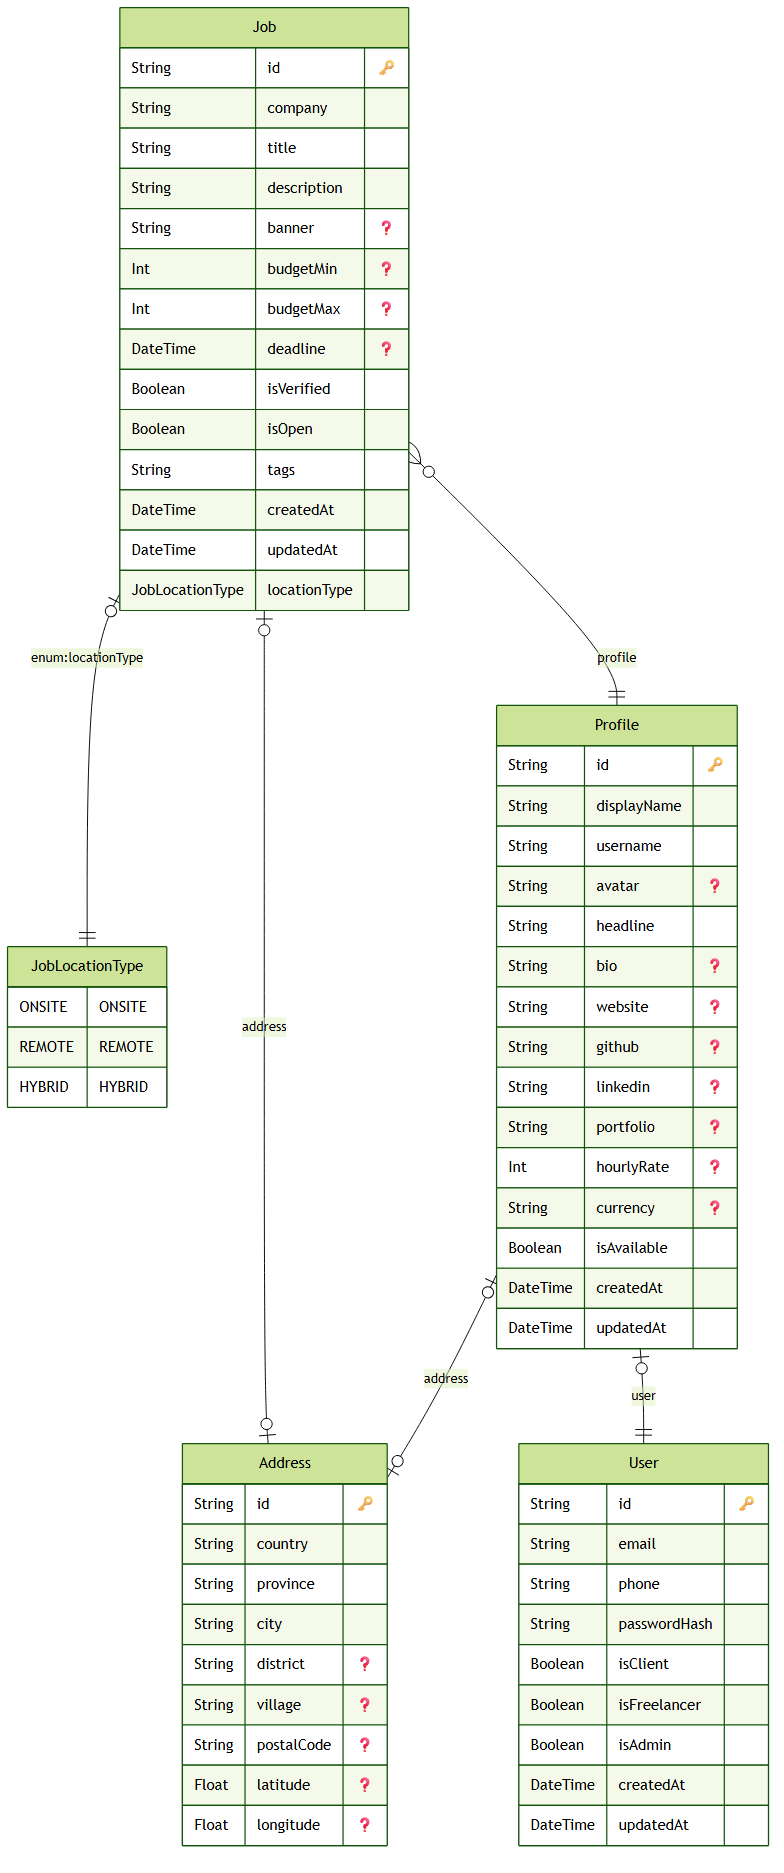
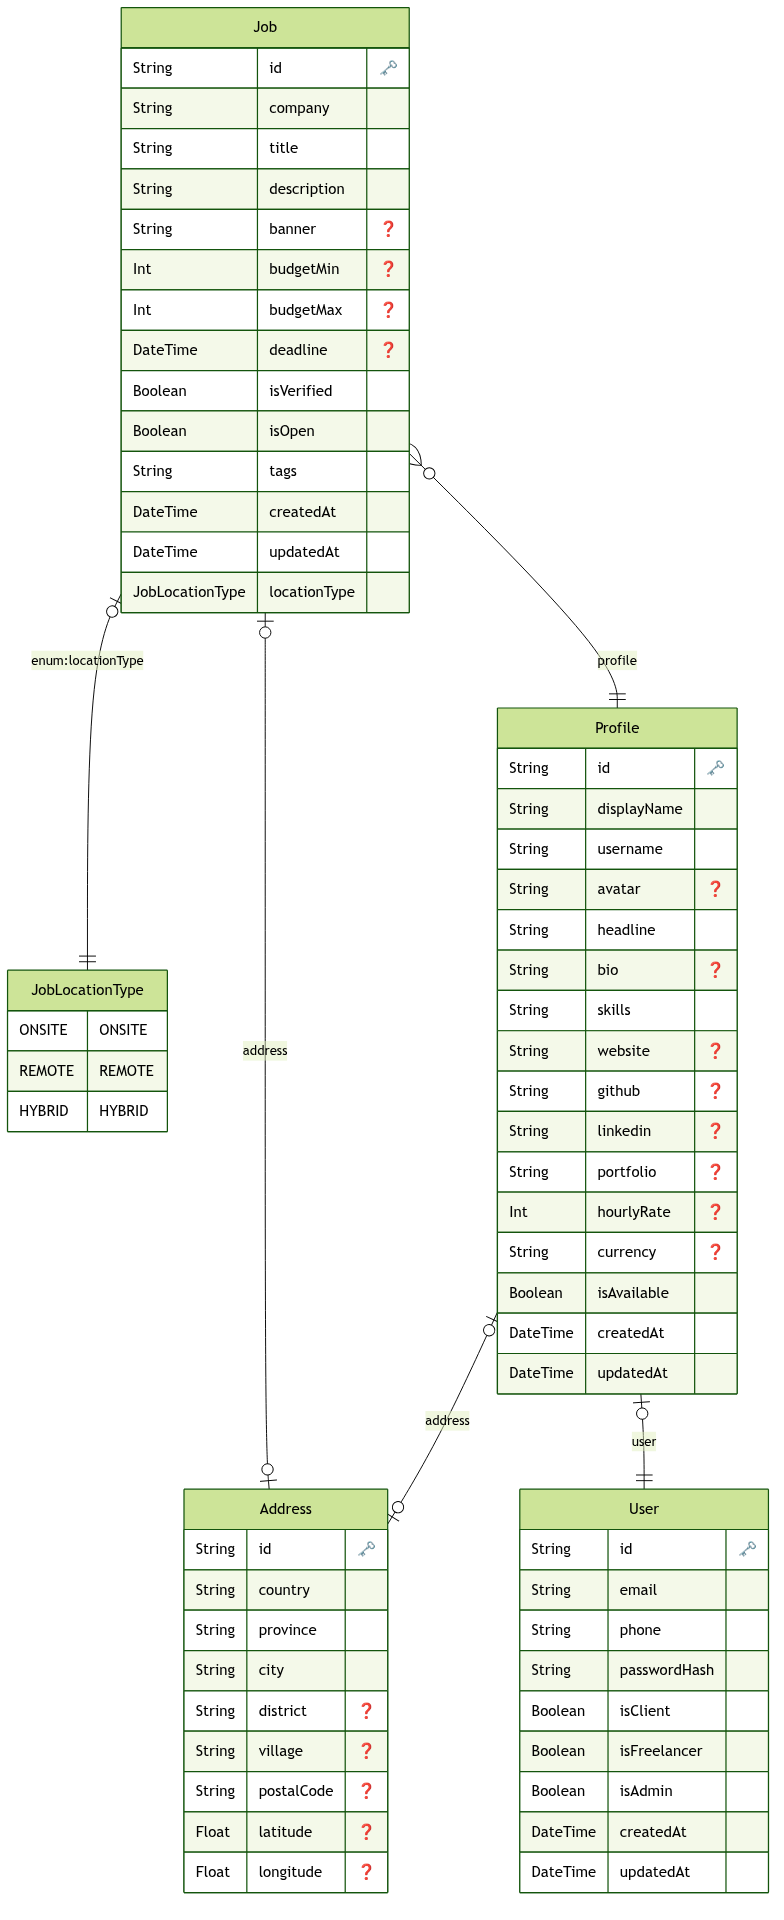
feat(database): reinitialize database schema with User, Address, Profile, and Job tables

diff --git a/src/app/api/auth/me/route.ts b/src/app/api/auth/me/route.ts
@@ -12,77 +12,3 @@ export async function GET() {
 
   return Response.json({ user });
 }
-
-// export async function GET() {
-//   try {
-//     const cookieStore = await cookies();
-
-//     const token = cookieStore.get("access_token")?.value;
-
-//     if (!token) {
-//       return Response.json(
-//         {
-//           message: "Unauthorized",
-//         },
-//         {
-//           status: 401,
-//         }
-//       );
-//     }
-
-//     const payload = await verifyAccessToken(token);
-
-//     const userId = payload.payload.sub;
-
-//     if (!userId) {
-//       return Response.json(
-//         {
-//           message: "Unauthorized",
-//         },
-//         {
-//           status: 401,
-//         }
-//       );
-//     }
-
-//     const user = await prisma.user.findUnique({
-//       where: {
-//         id: userId,
-//       },
-//       include: {
-//         profile: true,
-//       },
-//     });
-
-//     if (!user) {
-//       return Response.json(
-//         {
-//           message: "User tidak ditemukan",
-//         },
-//         {
-//           status: 404,
-//         }
-//       );
-//     }
-
-//     return Response.json({
-//       user: {
-//         id: user.id,
-//         email: user.email,
-//         isAdmin: user.isAdmin,
-//         isClient: user.isClient,
-//         isFreelancer: user.isFreelancer,
-//         profile: user.profile,
-//       },
-//     });
-//   } catch {
-//     return Response.json(
-//       {
-//         message: "Unauthorized",
-//       },
-//       {
-//         status: 401,
-//       }
-//     );
-//   }
-// }

diff --git a/prisma/seed/seedUsers.ts b/prisma/seed/seedUsers.ts
@@ -14,22 +14,26 @@ export async function seedUsers(prisma: PrismaClient, amount = 20) {
       data: userData,
     });
 
-    await prisma.profile.create({
-      data: {
-        ...generateProfile(),
-
-        user: {
-          connect: {
-            id: user.id,
+    try {
+      await prisma.profile.create({
+        data: {
+          ...generateProfile(),
+  
+          user: {
+            connect: {
+              id: user.id,
+            },
+          },
+  
+          address: {
+            connect: {
+              id: address.id,
+            },
           },
         },
-
-        address: {
-          connect: {
-            id: address.id,
-          },
-        },
-      },
-    });
+      });
+    } catch (err) {
+      console.log(err)
+    }
   }
 }

diff --git a/src/app/profile/page.tsx b/src/app/profile/page.tsx
@@ -1,10 +1,11 @@
 "use client";
 
 import React, { useEffect, useState } from "react";
-import { RiEditLine } from "@remixicon/react";
+import { RiEditLine, RiMailFill, RiMapPinFill } from "@remixicon/react";
 import { useRouter } from "next/navigation";
 import { logout, me } from "@/services/auth.service";
 import { RiArrowLeftLine } from "@remixicon/react";
+import { getUser } from "@/services/user.service";
 
 export default function ProfilePage() {
   const router = useRouter();
@@ -23,11 +24,15 @@ export default function ProfilePage() {
     async function loadUser() {
       try {
         const { user } = await me();
+        const { profile } = await getUser(user.id);
+
+        console.log("skills: ", profile?.skills)
 
         setUserData((prev) => ({
           ...prev,
-          name: user.email,
+          name: profile?.displayName ?? userData.name,
           email: user.email,
+          skills: profile?.skills ?? userData.skills
         }));
       } catch (error) {
         console.error(error);
@@ -92,8 +97,9 @@ export default function ProfilePage() {
 
               <p className="text-md text-gray-500">{userData.title}</p>
 
-              <p className="text-sm text-gray-400 mt-1">
-                📍 {userData.location} • ✉️ {userData.email}
+              <p className="text-sm text-gray-400 mt-1 flex gap-4">
+                <span className="flex gap-2 items-center"><RiMapPinFill /> {userData.location}</span>
+                <span className="flex gap-2 items-center"><RiMailFill /> {userData.email}</span>
               </p>
             </div>
           </div>

diff --git a/prisma/seed/profile.factory.ts b/prisma/seed/profile.factory.ts
@@ -1,7 +1,7 @@
 import { faker } from "@faker-js/faker";
 
 export function generateProfile() {
-  return {
+  return { 
     displayName: faker.person.fullName(),
 
     username:
@@ -9,6 +9,8 @@ export function generateProfile() {
       faker.number.int({ min: 1000, max: 9999 }),
 
     avatar: faker.image.avatar(),
+
+    skills: [faker.lorem.word(), faker.lorem.word(), faker.lorem.word()],
 
     headline: faker.person.jobTitle(),
 

diff --git a/prisma/seed/address.factory.ts b/prisma/seed/address.factory.ts
@@ -1,9 +1,10 @@
+import { PROVINCES } from "@/lib/constant";
 import { faker } from "@faker-js/faker";
 
 export function generateAddress() {
   return {
     country: "Indonesia",
-    province: faker.location.state(),
+    province: PROVINCES[Math.floor(Math.random() * PROVINCES.length)],
     city: faker.location.city(),
     district: faker.location.county(),
     village: faker.location.street(),

diff --git a/src/app/api/profiles/[id]/route.ts b/src/app/api/profiles/[id]/route.ts
@@ -59,6 +59,8 @@ export async function PATCH(
         headline: body.headline,
         bio: body.bio,
 
+        skills: body.skills,
+
         website: body.website,
         github: body.github,
         linkedin: body.linkedin,

diff --git a/src/app/api/profiles/route.ts b/src/app/api/profiles/route.ts
@@ -24,6 +24,8 @@ export async function POST(request: Request) {
         headline: body.headline,
         bio: body.bio,
 
+        skills: body.skills,
+
         website: body.website,
         github: body.github,
         linkedin: body.linkedin,

diff --git a/src/lib/constant.ts b/src/lib/constant.ts
@@ -1,5 +1,4 @@
 export const PROVINCES = [
-  "Ohio",
   "Aceh",
   "Sumatera Utara",
   "Sumatera Barat",